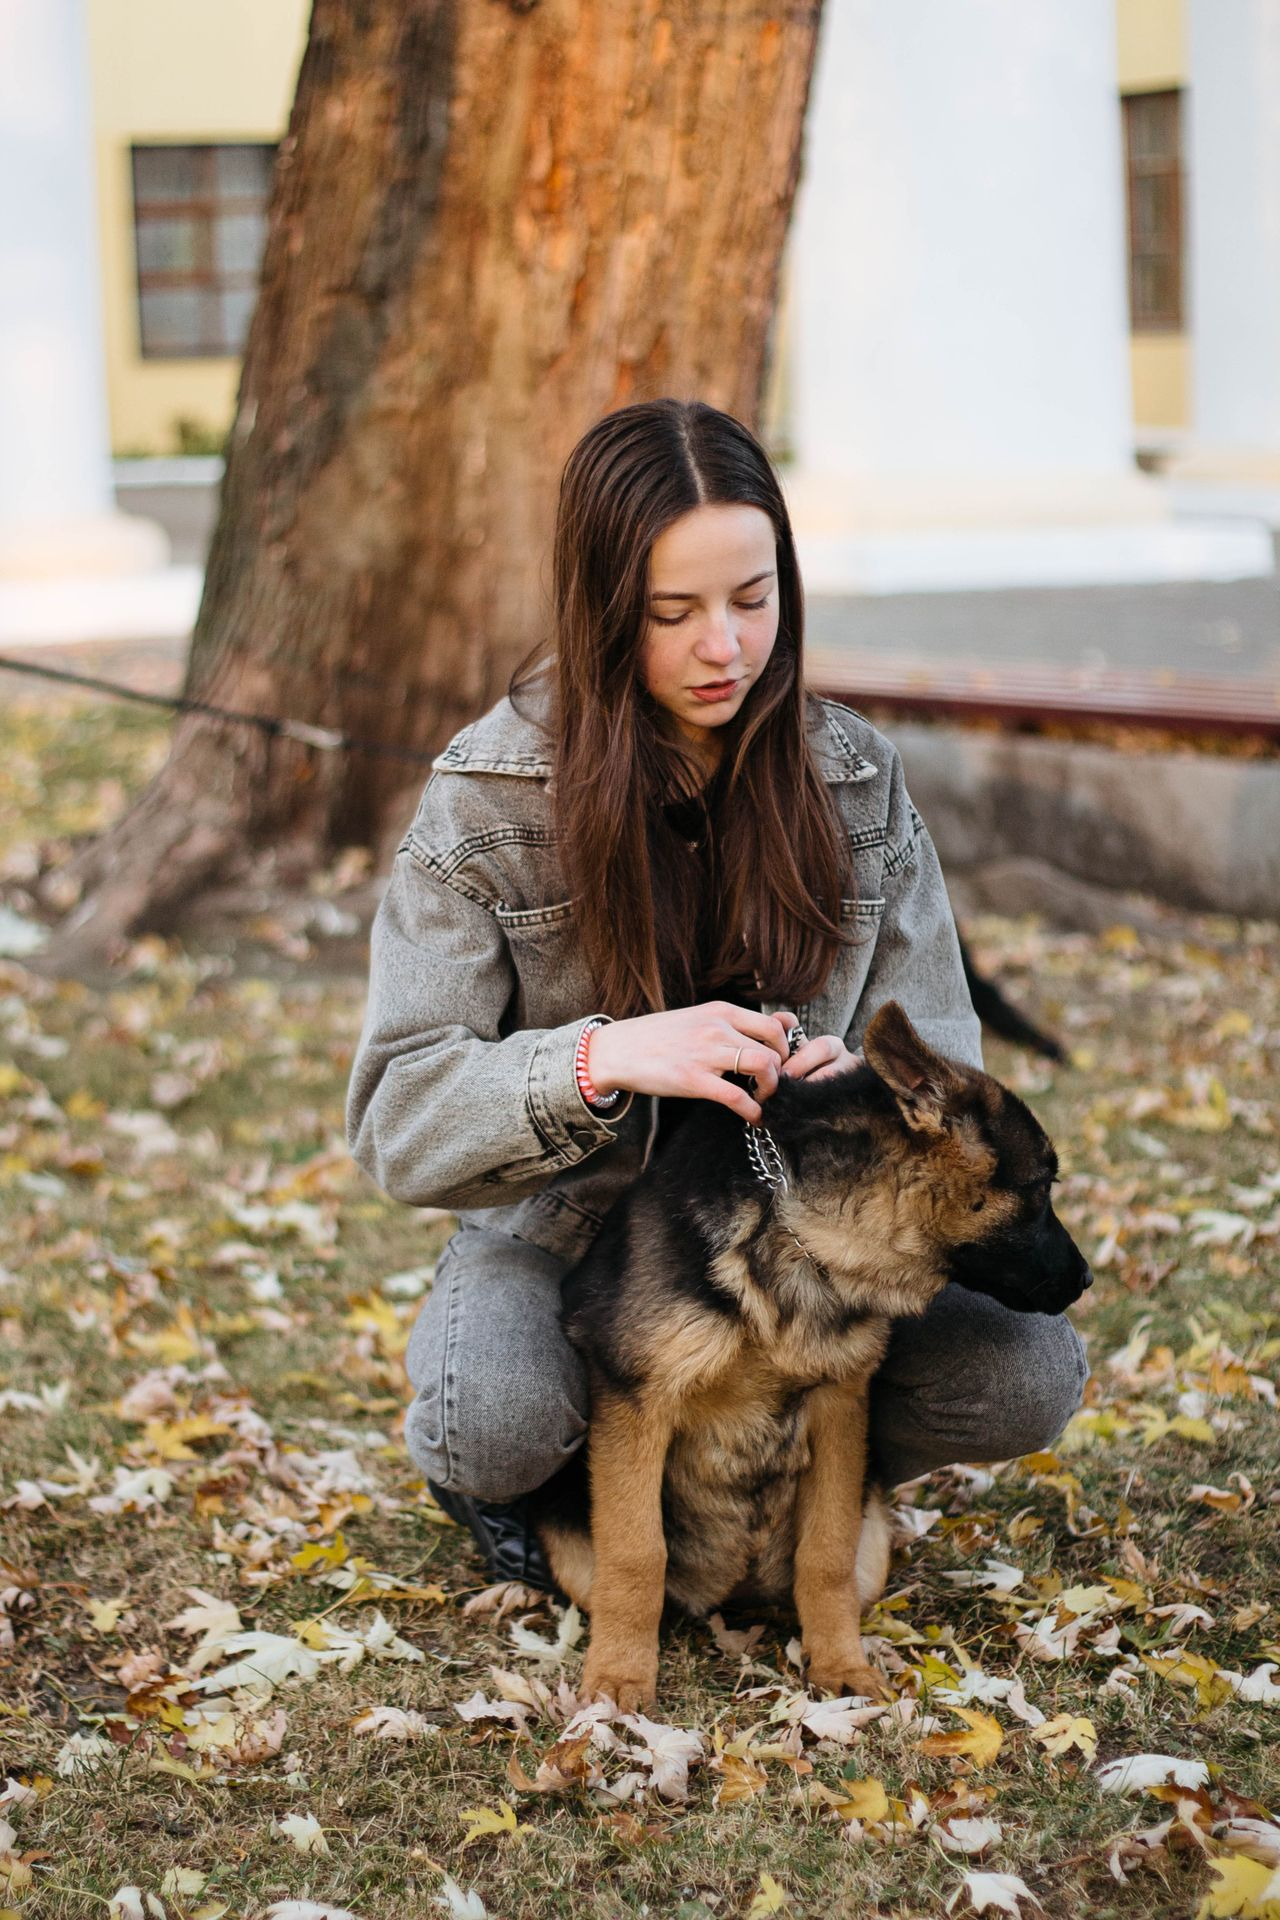
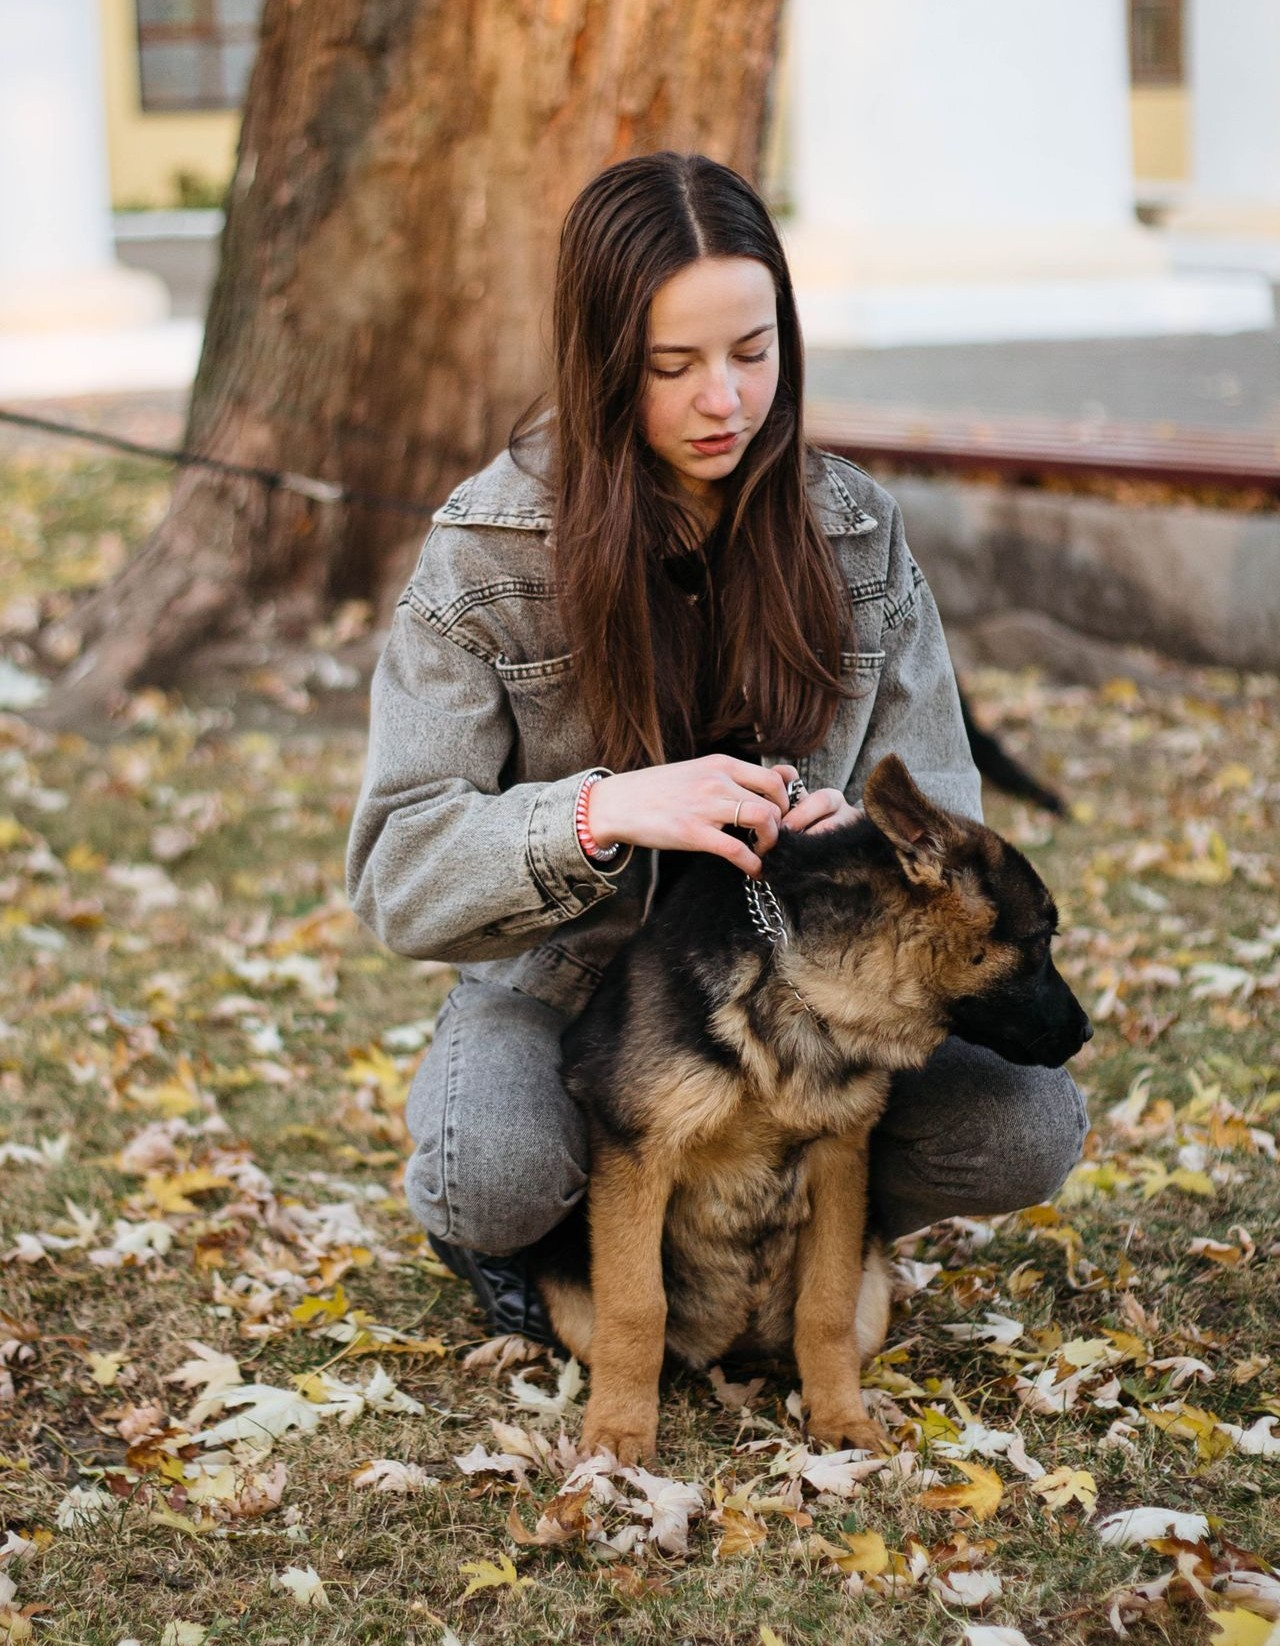
Version 17: More CSS has been done and completely finished 3 pages.

diff --git a/houseSItters.html b/houseSItters.html
@@ -36,13 +36,13 @@
             </div>
         </div>
 
-        <table class="table-center">
+        <table class="table-center display-table">
             <tr>
                 <td>
-                    <table>
+                    <table class="cell">
                         <tr>
-                            <td><img class="aboutImage" src="images/houseSitterInfo.jpg" alt="Info"></td>
-                            <td>
+                            <td class="cell-collapse"><img class="aboutImage" src="images/houseSitterInfo.jpg" alt="Info"></td>
+                            <td class="cell-text">
                                 <h2>Trusted & Reliable House Sitters</h2>
                                 <p>Every house sitter on our platform is reviewed by homeowners and builds a trusted reputation through experience, communication, and reliability. We encourage detailed profiles, verified reviews, and clear expectations so homeowners can confidently choose the right person for their home and pets.
 Our sitters come from a wide range of backgrounds, including experienced pet owners, travellers, retirees, and remote workers — all looking to provide dependable care while homeowners are away.</p>
@@ -53,12 +53,12 @@ Our sitters come from a wide range of backgrounds, including experienced pet own
             </tr>
         </table>
             
-        <table class="table-center">
+        <table class="table-center display-table houseSitterSpacing">
             <tr>
                 <td>
-                    <table>
+                    <table class="cell">
                         <tr>
-                            <td><img class="houseSitter" src="images/sitter1.jpg" alt="Sitter 1"></td>
+                            <td class="cell-collapse"><img class="houseSitter" src="images/sitter1.jpg" alt="Sitter 1"></td>
                             <td>
                                 <table>
                                     <tr>
@@ -76,9 +76,9 @@ Our sitters come from a wide range of backgrounds, including experienced pet own
                     </table>
                 </td>
                 <td>
-                    <table>
+                    <table class="cell">
                         <tr>
-                            <td><img class="houseSitter" src="images/sitter2.jpg" alt="Sitter 2"></td>
+                            <td class="cell-collapse"><img class="houseSitter" src="images/sitter2.jpg" alt="Sitter 2"></td>
                             <td>
                                 <table>
                                     <tr>
@@ -98,9 +98,9 @@ Our sitters come from a wide range of backgrounds, including experienced pet own
             </tr>
             <tr>
                 <td>
-                    <table>
+                    <table class="cell">
                         <tr>
-                            <td><img class="houseSitter" src="images/sitter3.jpg" alt="Sitter 3"></td>
+                            <td class="cell-collapse"><img class="houseSitter" src="images/sitter3.jpg" alt="Sitter 3"></td>
                             <td>
                                 <table>
                                     <tr>
@@ -118,9 +118,9 @@ Our sitters come from a wide range of backgrounds, including experienced pet own
                     </table>
                 </td>
                 <td>
-                    <table>
+                    <table class="cell">
                         <tr>
-                            <td><img class="houseSitter" src="images/sitter4.jpg" alt="Sitter 4"></td>
+                            <td class="cell-collapse"><img class="houseSitter" src="images/sitter4.jpg" alt="Sitter 4"></td>
                             <td>
                                 <table>
                                     <tr>

diff --git a/style.css b/style.css
@@ -1,10 +1,12 @@
 h1{
     font-family: 'Sora';
     font-weight: 900;
+    font-size: 45px;
 }
 
 p{
     font-family: 'Inter';
+    font-size: 18px;
 }
 
 h2{
@@ -65,7 +67,7 @@ div.logo{
 div.account{
     position: absolute;
     right: 20px;
-    top: 25px;
+    top: 10px;
 }
 
 div.banner-box{
@@ -90,11 +92,14 @@ div.banner-text{
     height: 300px;
     width: 300px;
     border-radius: 300px;
+    border: 1px solid black;
 }
 
 .houseSitter{
-    height: 580px;
-    width: 400px;
+    height: 50vh;
+    width: 20vw;
+    display: block;
+    border: 0;
 }
 
 .align-left{
@@ -112,7 +117,7 @@ div.banner-text{
 body{
     margin: 0;
     padding: 0;
-    background: #2F4550;
+    background: #2f4550;
 }
 
 button{
@@ -181,3 +186,27 @@ button:hover{
     padding-left: 3%;
     padding-right: 3%;
 }
+
+.banner-text{
+    background-color: #F4F4F9b3;
+    padding-top: 0.1%;
+    padding-bottom: 0.1%;
+    padding-right: 1%;
+    padding-left: 1%;
+    border-radius: 10px;
+}
+
+.houseSitterSpacing{
+
+    border-spacing: 2vw;
+}
+
+.contact-cell{
+    border-radius: 15px;
+    background-color: #F4F4F9;
+    padding: 20px;
+    overflow: hidden;
+    border: 2px solid black;
+    border-spacing: 0;
+}
+

diff --git a/contact.html b/contact.html
@@ -39,7 +39,7 @@
         <table class="table-center">
             <tr>
                 <td>
-                    <table>
+                    <table class="contact-cell">
                         <tr>
                             <td><img class="contactImg" src="images/contactCompany.jpg" alt="Contact Company"></td>
                         </tr>
@@ -52,7 +52,7 @@
                 <td class="place-holder"></td>
                 <td class="place-holder"></td>
                 <td>
-                    <table>
+                    <table class="contact-cell">
                         <tr>
                             <td><img class="contactImg" src="images/contactHouseSitter.png" alt="Contact House Sitter"></td>
                         </tr>
